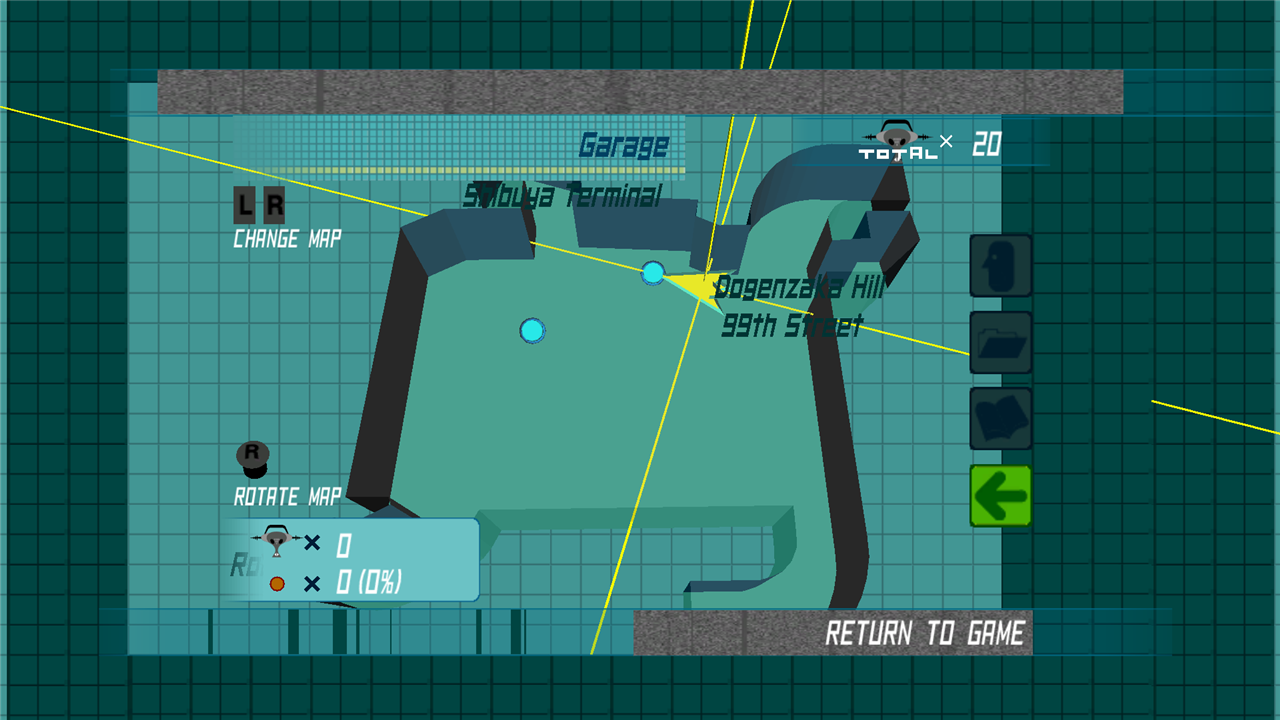
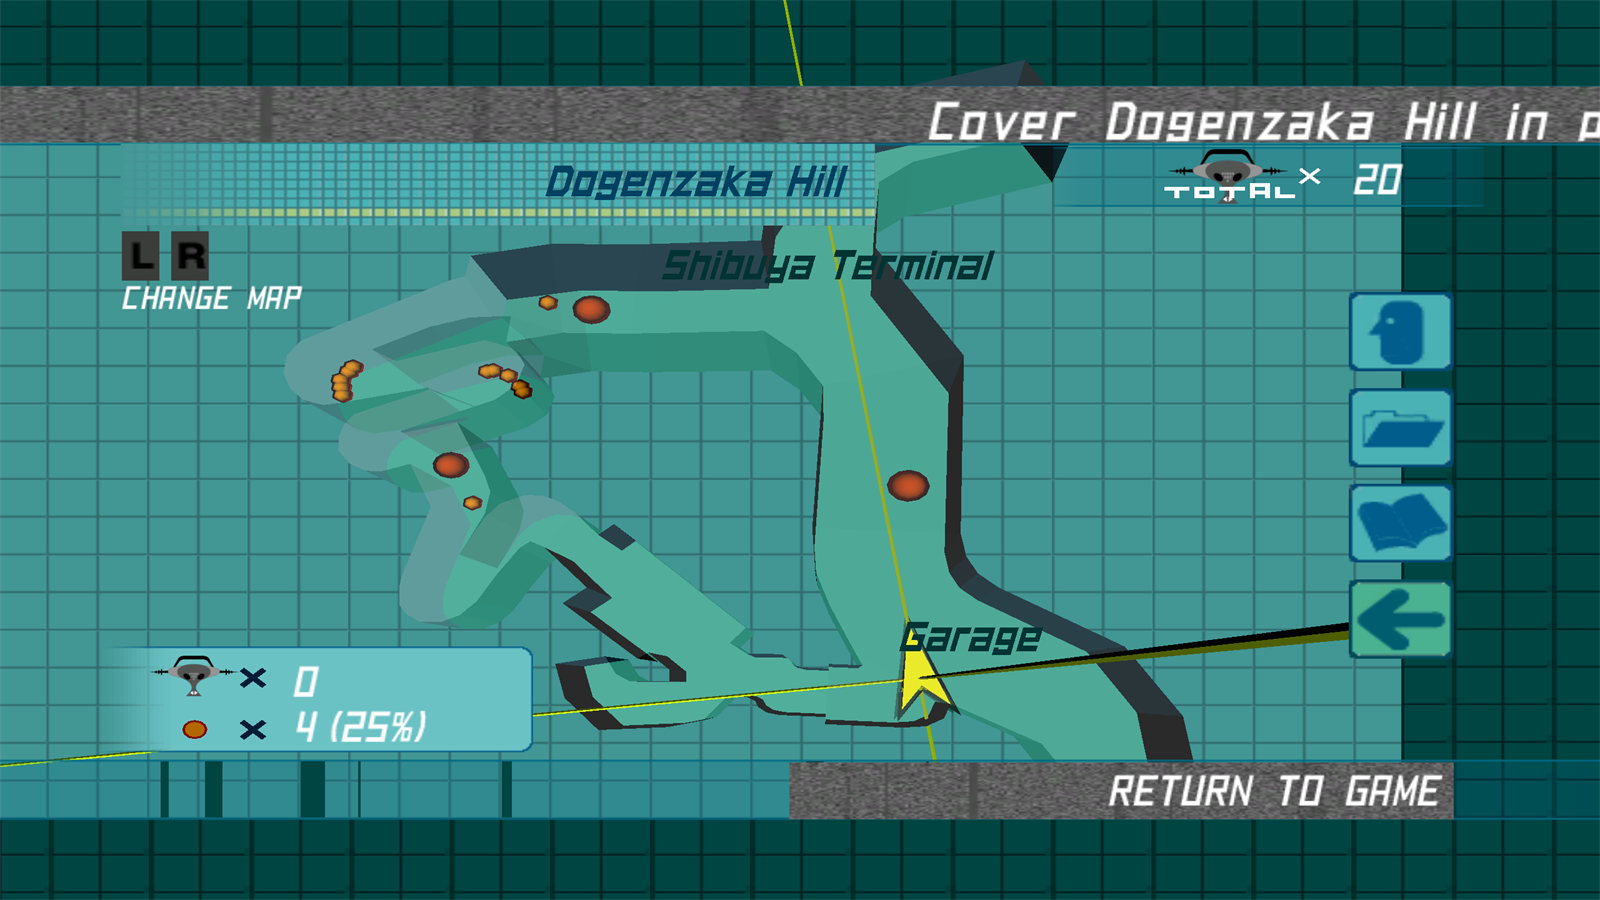
docs: new map screenshot and an up-to-date plan list
The pause map now fills the screen in widescreen, so the README shows the
new look. The planned list no longer has widescreen for the remaining
screens (done in 0.5.0) or the tagging gauge (the game's own stays).

diff --git a/README.md b/README.md
@@ -92,8 +92,7 @@ The same frame of the intro fly-through, rendered by ReJet with the original loo
 
 ## What's planned
 
-- **Widescreen for the remaining screens**: the loading screen, character select and the pause menu's map don't fit widescreen yet (parts clip or show at the sides).
-- **The rest of the ReJet HUD**: the tagging gauge, the yellow sign's other states, races with laps and positions, then split screen.
+- **The rest of the ReJet HUD**: the yellow sign's other states, races with laps and positions, then split screen.
 - **Right-stick camera control** and **button remapping**.
 - **Your own music**: the Xbox let Jet Set Radio Future play songs from its hard drive, and ReJet could map that to a folder on your PC.
 - **Skipping the intro logos**, and controller rumble on/off.
